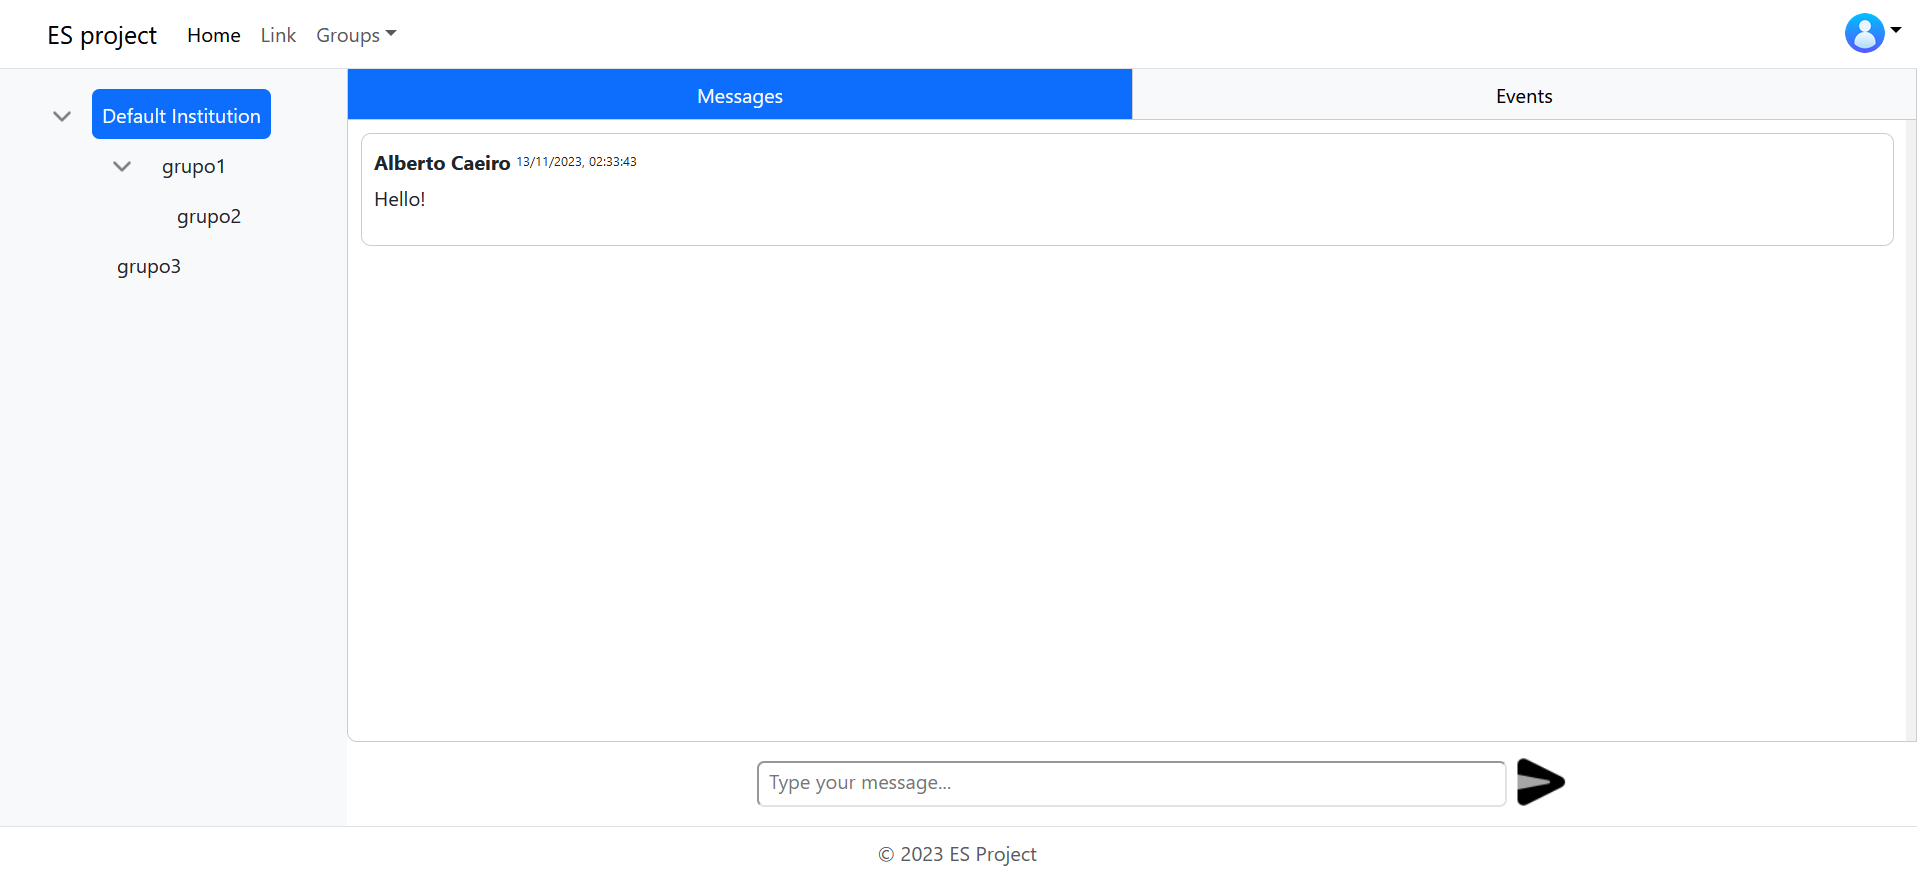
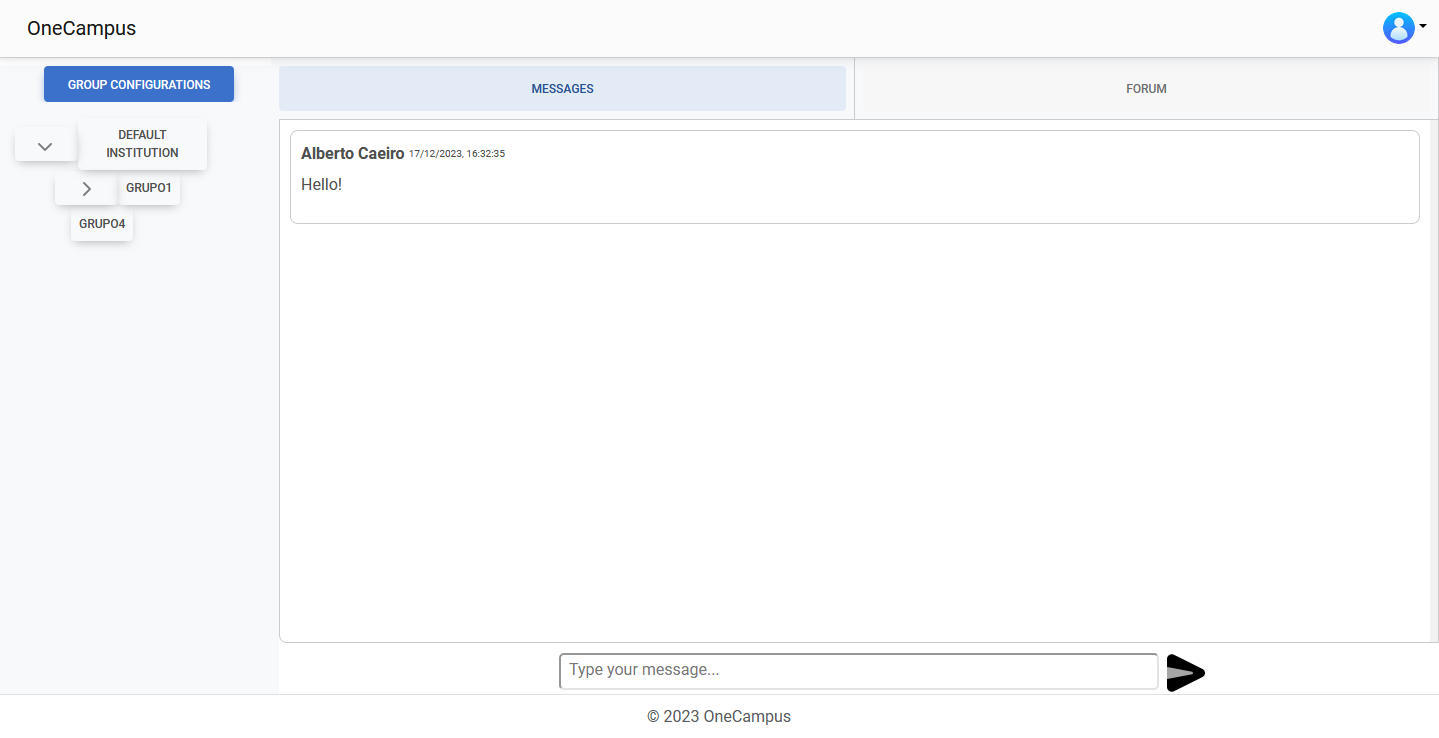
Added forum and permissions docs and edited messages docs

diff --git a/docs-website/Permissions.md b/docs-website/Permissions.md
@@ -1,0 +1,33 @@
+---
+sidebar_position: 6
+slug: /permissions
+---
+
+# Permissions
+
+## Description
+- **View user list**: Users can view the user list for a group they are part of.
+- **Invite users**: Users can invite other users to a group.
+- **Edit Permissions**: Users can edit permissions of other users in the group.
+
+## Usage
+
+### Requirements
+- The user must be authenticated.
+- The user must be in a group.
+- The user must have permission to edit the group permissions.
+
+### Walkthrough
+
+1. Click on the button "Group Configurations".  
+!['+' Icon](permissions1.png)  
+2. The user list of the group will be displayed.
+!['+' Icon](permissions2.png)
+3. In order to edit user permissions, selected the tab "Edit Permissions". Then select the users whose permissions are to be edited on the left and the permissions that are to be given on the right. Finally click on "Edit Permissions".
+!['+' Icon](permissions3.png)
+4. In order to invite other users to a group you must be in a group that the user that is to be invited is not.
+!['+' Icon](permissions4.png)
+5. Go to the tab "Invite Users" and select the users that are to be invited and then click on "Invite users".
+!['+' Icon](permissions5.png)
+6. The invited users are now displayed in the group's user list.
+!['+' Icon](permissions6.png)

diff --git a/docs-website/Forum.md b/docs-website/Forum.md
@@ -1,0 +1,36 @@
+---
+sidebar_position: 5
+slug: /forum
+---
+
+# Forum
+
+## Description
+- **Questions**: Users can post questions for other users that belong to the same group to see.
+- **Answers**: Users can answer questions posted in the forum.
+- **Search bar**: Users can filter the questions by using the search bar.
+
+## Usage
+
+### Requirements
+- The user must be authenticated.
+- The user must be in a group.
+- The user must have permission to post questions and submit answers.
+
+### Walkthrough
+
+1. Click on one of the groups.  
+!['+' Icon](forum1.png)  
+2. Write the question in the input box.  
+![Form](forum2.png)
+3. The question has been posted on the forum of the selected group.
+!['+' Icon](forum3.png)
+4. The search bar can be used to filter through questions.
+!['+' Icon](forum4.png)
+!['+' Icon](forum5.png)
+5. To answer a question, select the question and a dropdown will appear. Then click on the button "Add New Answer".
+!['+' Icon](forum6.png)
+6. A modal will appear, with an input to write the answer. To submit the answer click on "Add".
+!['+' Icon](forum7.png)
+7. The answer has been posted under the selected question.
+!['+' Icon](forum8.png)
